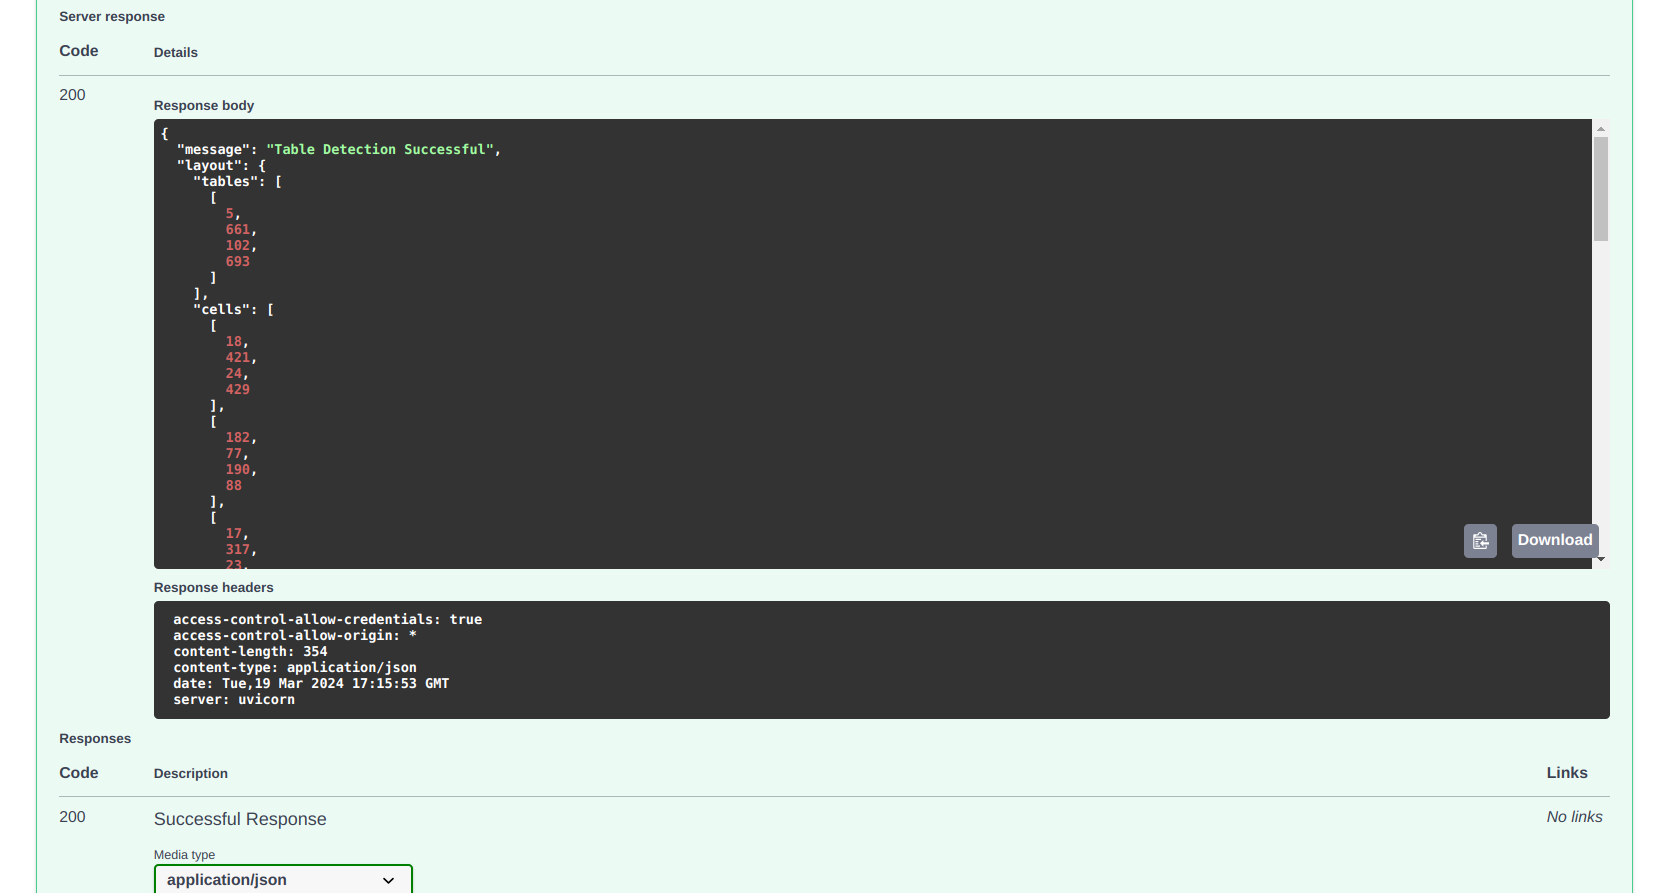
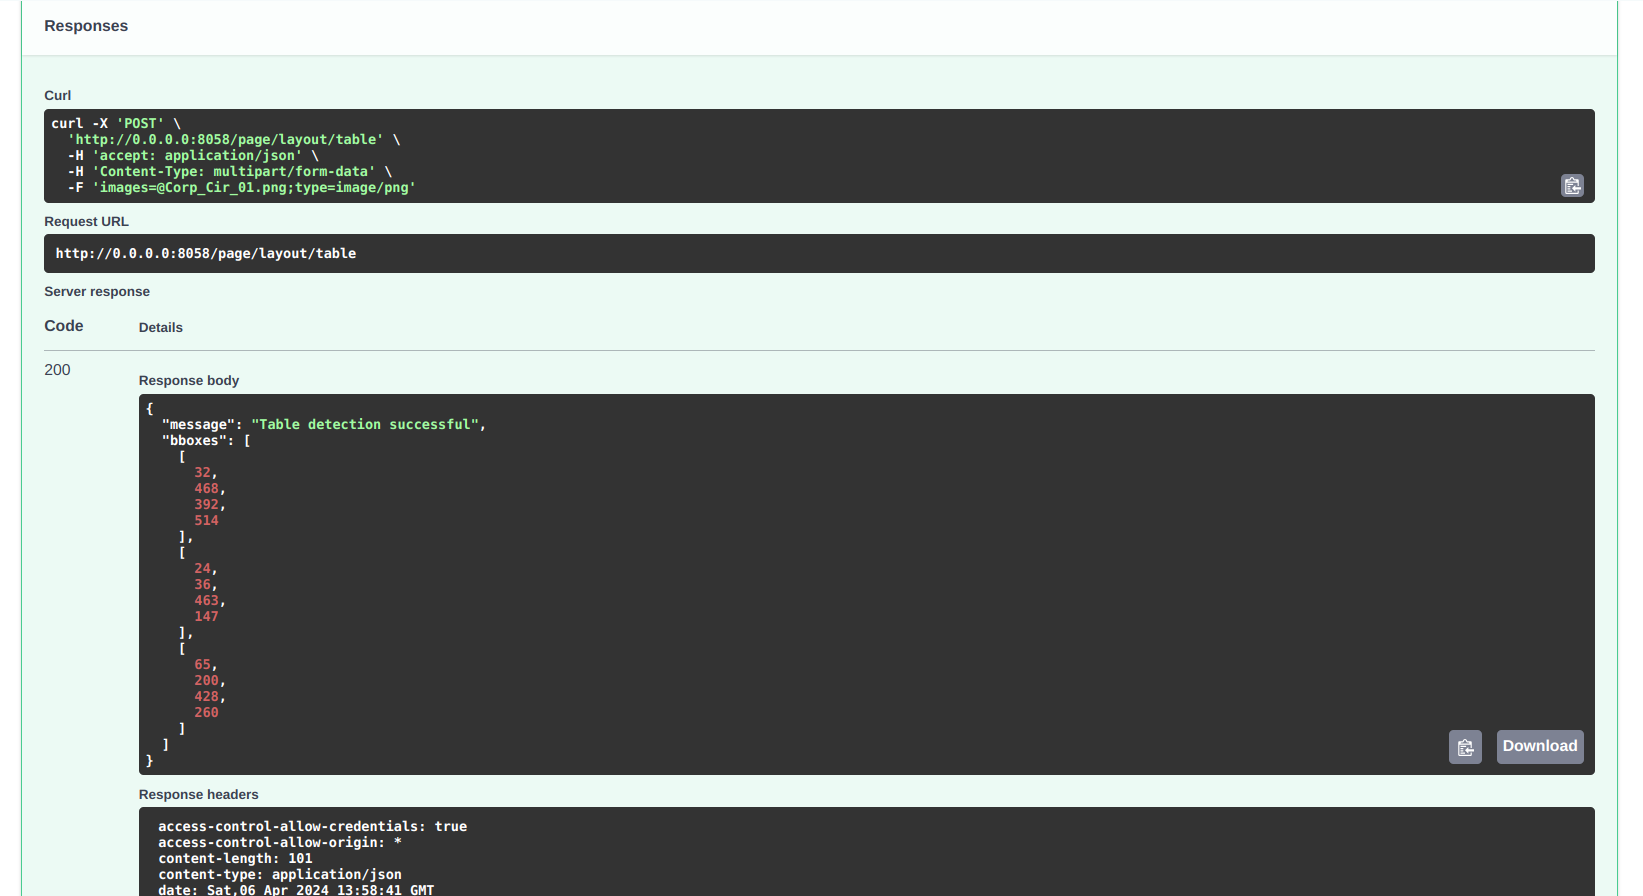
Modified table detection

diff --git a/server/modules/page/layout/iitb_v0_table/routes.py b/server/modules/page/layout/iitb_v0_table/routes.py
@@ -26,7 +26,7 @@ async def detect_table(images: List[UploadFile]):
         "--rm",
         "-v",
         f"{temp.name}:/model/data",
-        "page-layout"
+        "tabledockerizefinal"
     ]
     subprocess.call(docker_command)
     print("Done docker")
@@ -34,11 +34,21 @@ async def detect_table(images: List[UploadFile]):
     with open(os.path.join(temp.name, "out.json")) as f:
         out = json.load(f)
 
-    # Extract tables and cells from the output JSON
-    tables = out.get("tables", [])
-    cells = out.get("cells", [])
+        # Extract message and bboxes from out.json
+    message = out.get("message", "Table Detection Successful")
+    bboxes = out.get("bboxes", [])
 
-    return JSONResponse(content={"message": "Table Detection Successful", "layout": {"tables": tables, "cells": cells}})
+    # Check if table detection was unsuccessful (no bboxes detected)
+    if not bboxes:
+        message = "No table detected"
+
+    # Construct API response
+    response_content = {
+        "message": message,
+        "bboxes": bboxes
+    }
+
+    return JSONResponse(content=response_content)
 
 
 

diff --git a/server/modules/word/__init__.py b/server/modules/word/__init__.py
@@ -1,7 +1,7 @@
 from fastapi import APIRouter
 
 from .attr import router as attr_router
-#from .ocr import router as ocr_router
+from .ocr import router as ocr_router
 
 router = APIRouter(
     prefix="/word",
@@ -9,4 +9,4 @@ router = APIRouter(
 )
 
 router.include_router(attr_router)
-#router.include_router(ocr_router)
+router.include_router(ocr_router)

diff --git a/README.md b/README.md
@@ -1,1 +1,35 @@
-# bhashini-ocr-api
+# Bhashini OCR API (version-0)
+
+## Description
+
+This is an API that combines the functionalities of Layout Parsing and OCR providing the following endpoints.
+
+| End Point  | Technical Details |
+| :---: | :---: |
+| /page/ocr  | Tesseract  |
+| /page/layout/table |  Table Detection FRCNN Model  |
+| /page/layout/text/word | TEXTRON |
+| /page/layout/text/word/attr/style |  Font name and style  |
+| /word/ocr  | Robust Hindi Model |
+| /word/attr/script |  Script Detection  |
+| /apps/page |  Layout Preserving OCR  |
+
+## Getting Started
+1. Clone the repository to local system
+   ```
+   git clone -b version-0 https://github.com/IITB-LEAP-OCR/bhashini-ocr-api.git
+   ```
+2. Create a python3 virtualenv and activate it
+   ```
+   python3 -m venv .venv
+   source .venv/bin/activate
+   ```
+3. Install the required python packages
+   ```
+    pip3 install -r requirements.txt
+   ```
+4. Simply run the main.py file
+   ```
+    python3 main.py
+   ```
+5. To access the swagger UI redirect to http://0.0.0.0:8058/api/v0/docs
